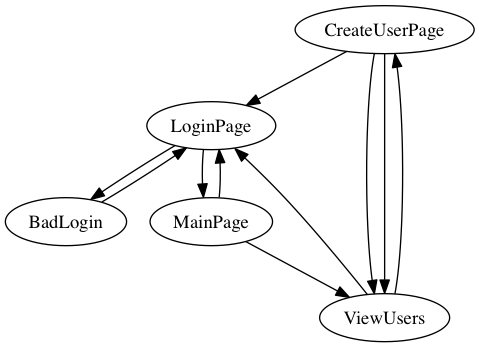
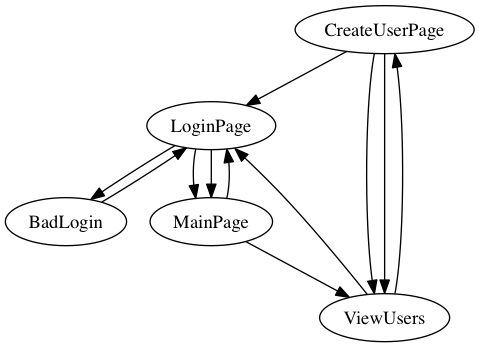
use different users for login, record users we create, login with created users

Changed region(s): [[0.38, 0.4323, 0.4969, 0.5764]]

diff --git a/login_page.rb b/login_page.rb
@@ -5,17 +5,30 @@ class LoginPage < Model::WebNode
 
   transition :bad_login , :goes_to => :BadLogin
   transition :login , :goes_to => :MainPage
+  transition :login_with_created_user , :goes_to => :MainPage , :if => :any_users_created?
 
   has_url "/"
 
   include LoginPageControls
 
   def bad_login
-    login( Time.now.to_i.to_s )
+    login( "bad_" + Time.now.to_i.to_s )
   end
 
+  def any_users_created?
+    $new_users.length > 0
+  end
+
+  def login_with_created_user
+    login( $new_users.sample )
+  end  
+
   def login( name = nil )
-  	name = "test " unless name  # the space on the login field messes us up a bit
+    if name.nil?
+  	  name = [ " test "  , "alpha"].sample   # the space on the login field messes us up a bit
+    end
+    puts "login with #{name}"
+    username_text_field.clear
     username_text_field.send_keys( name )
     login_button.click
   end

diff --git a/go.rb b/go.rb
@@ -8,7 +8,7 @@ end
 
 $browser = Selenium::WebDriver.for(:firefox )
 
-$new_user = ""
+$new_users = []
 
 require_relative "login_page_controls"
 require_relative "create_users_page"
@@ -21,7 +21,7 @@ run_name  = "showcase_#{Time.now.to_i}"
 FileUtils.mkdir_p "/tmp/#{run_name}_images/"
 
 Model.base_url = "https://automation-showcase-app.herokuapp.com"
-Model.iterations_to_do = 30
+Model.iterations_to_do = 40
 Model.url_recording( :on => true , :file => "/tmp/#{run_name}.log")
 Model.screenshots(:on => true , :dir => "/tmp/#{run_name}_images/" ) 
 
@@ -30,3 +30,5 @@ Model.starting_point :page=> LoginPage
 
 
 Model.go_with_browser
+
+at_exit{ puts " created these users: " + $new_users.join(" ") }

diff --git a/view_users.rb b/view_users.rb
@@ -35,9 +35,14 @@ class ViewUsers < Model::WebNode
 
   def created?
     if on_page?
-      if browser.find_element(:class => "alert").text.strip == "User '#{$new_user}' created."
+      text = browser.find_element(:class => "alert").text.strip
+      if text == "User '#{$new_users.last}' created."
         return true
+      else
+          puts "created? - didnt find correct text - got #{text}"
       end  
+    else
+      puts "created? - on_page returned false"  
     end
     return false  
   end  

diff --git a/create_users_page.rb b/create_users_page.rb
@@ -14,9 +14,9 @@ class CreateUserPage < Model::WebNode
 
   def create_user( name = nil)
     if name.nil?
-      name = Time.now.to_i.to_s
+      name = "New_" + Time.now.to_i.to_s
     end
-    $new_user = name
+    $new_users << name
     browser.find_element(:id => "username").send_keys name
     browser.find_element(:id => "create").click
   end  
